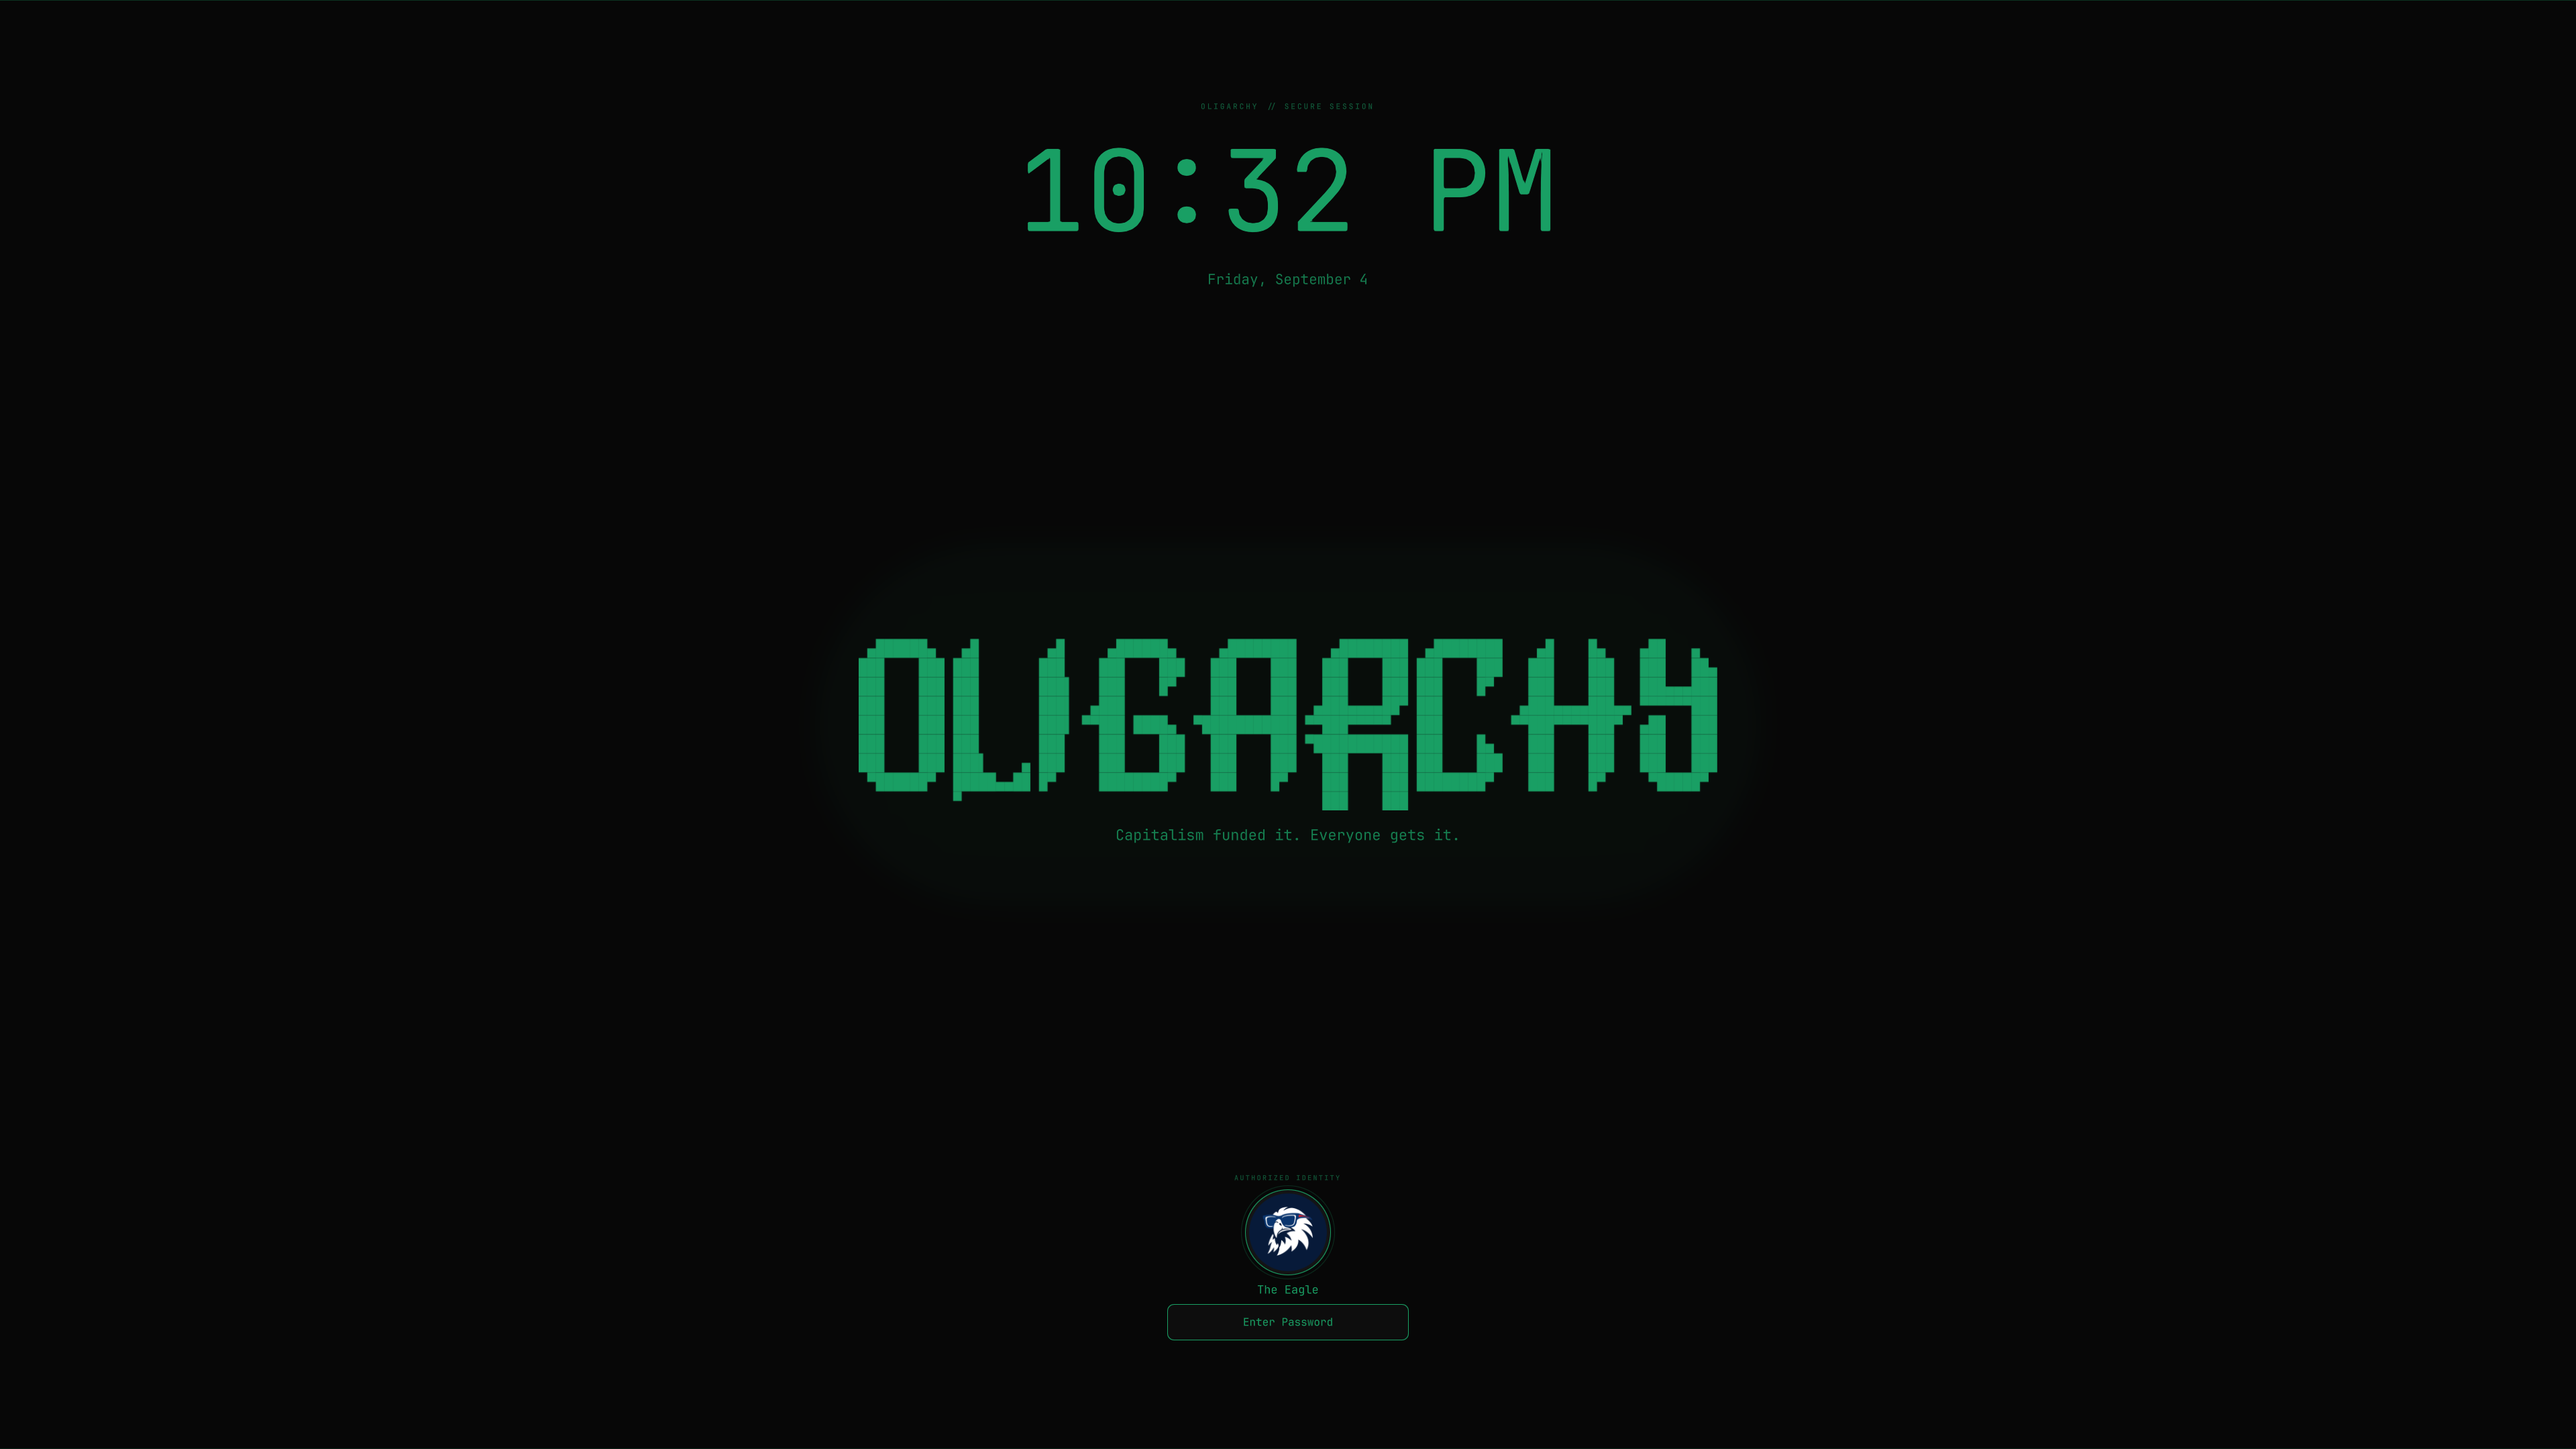
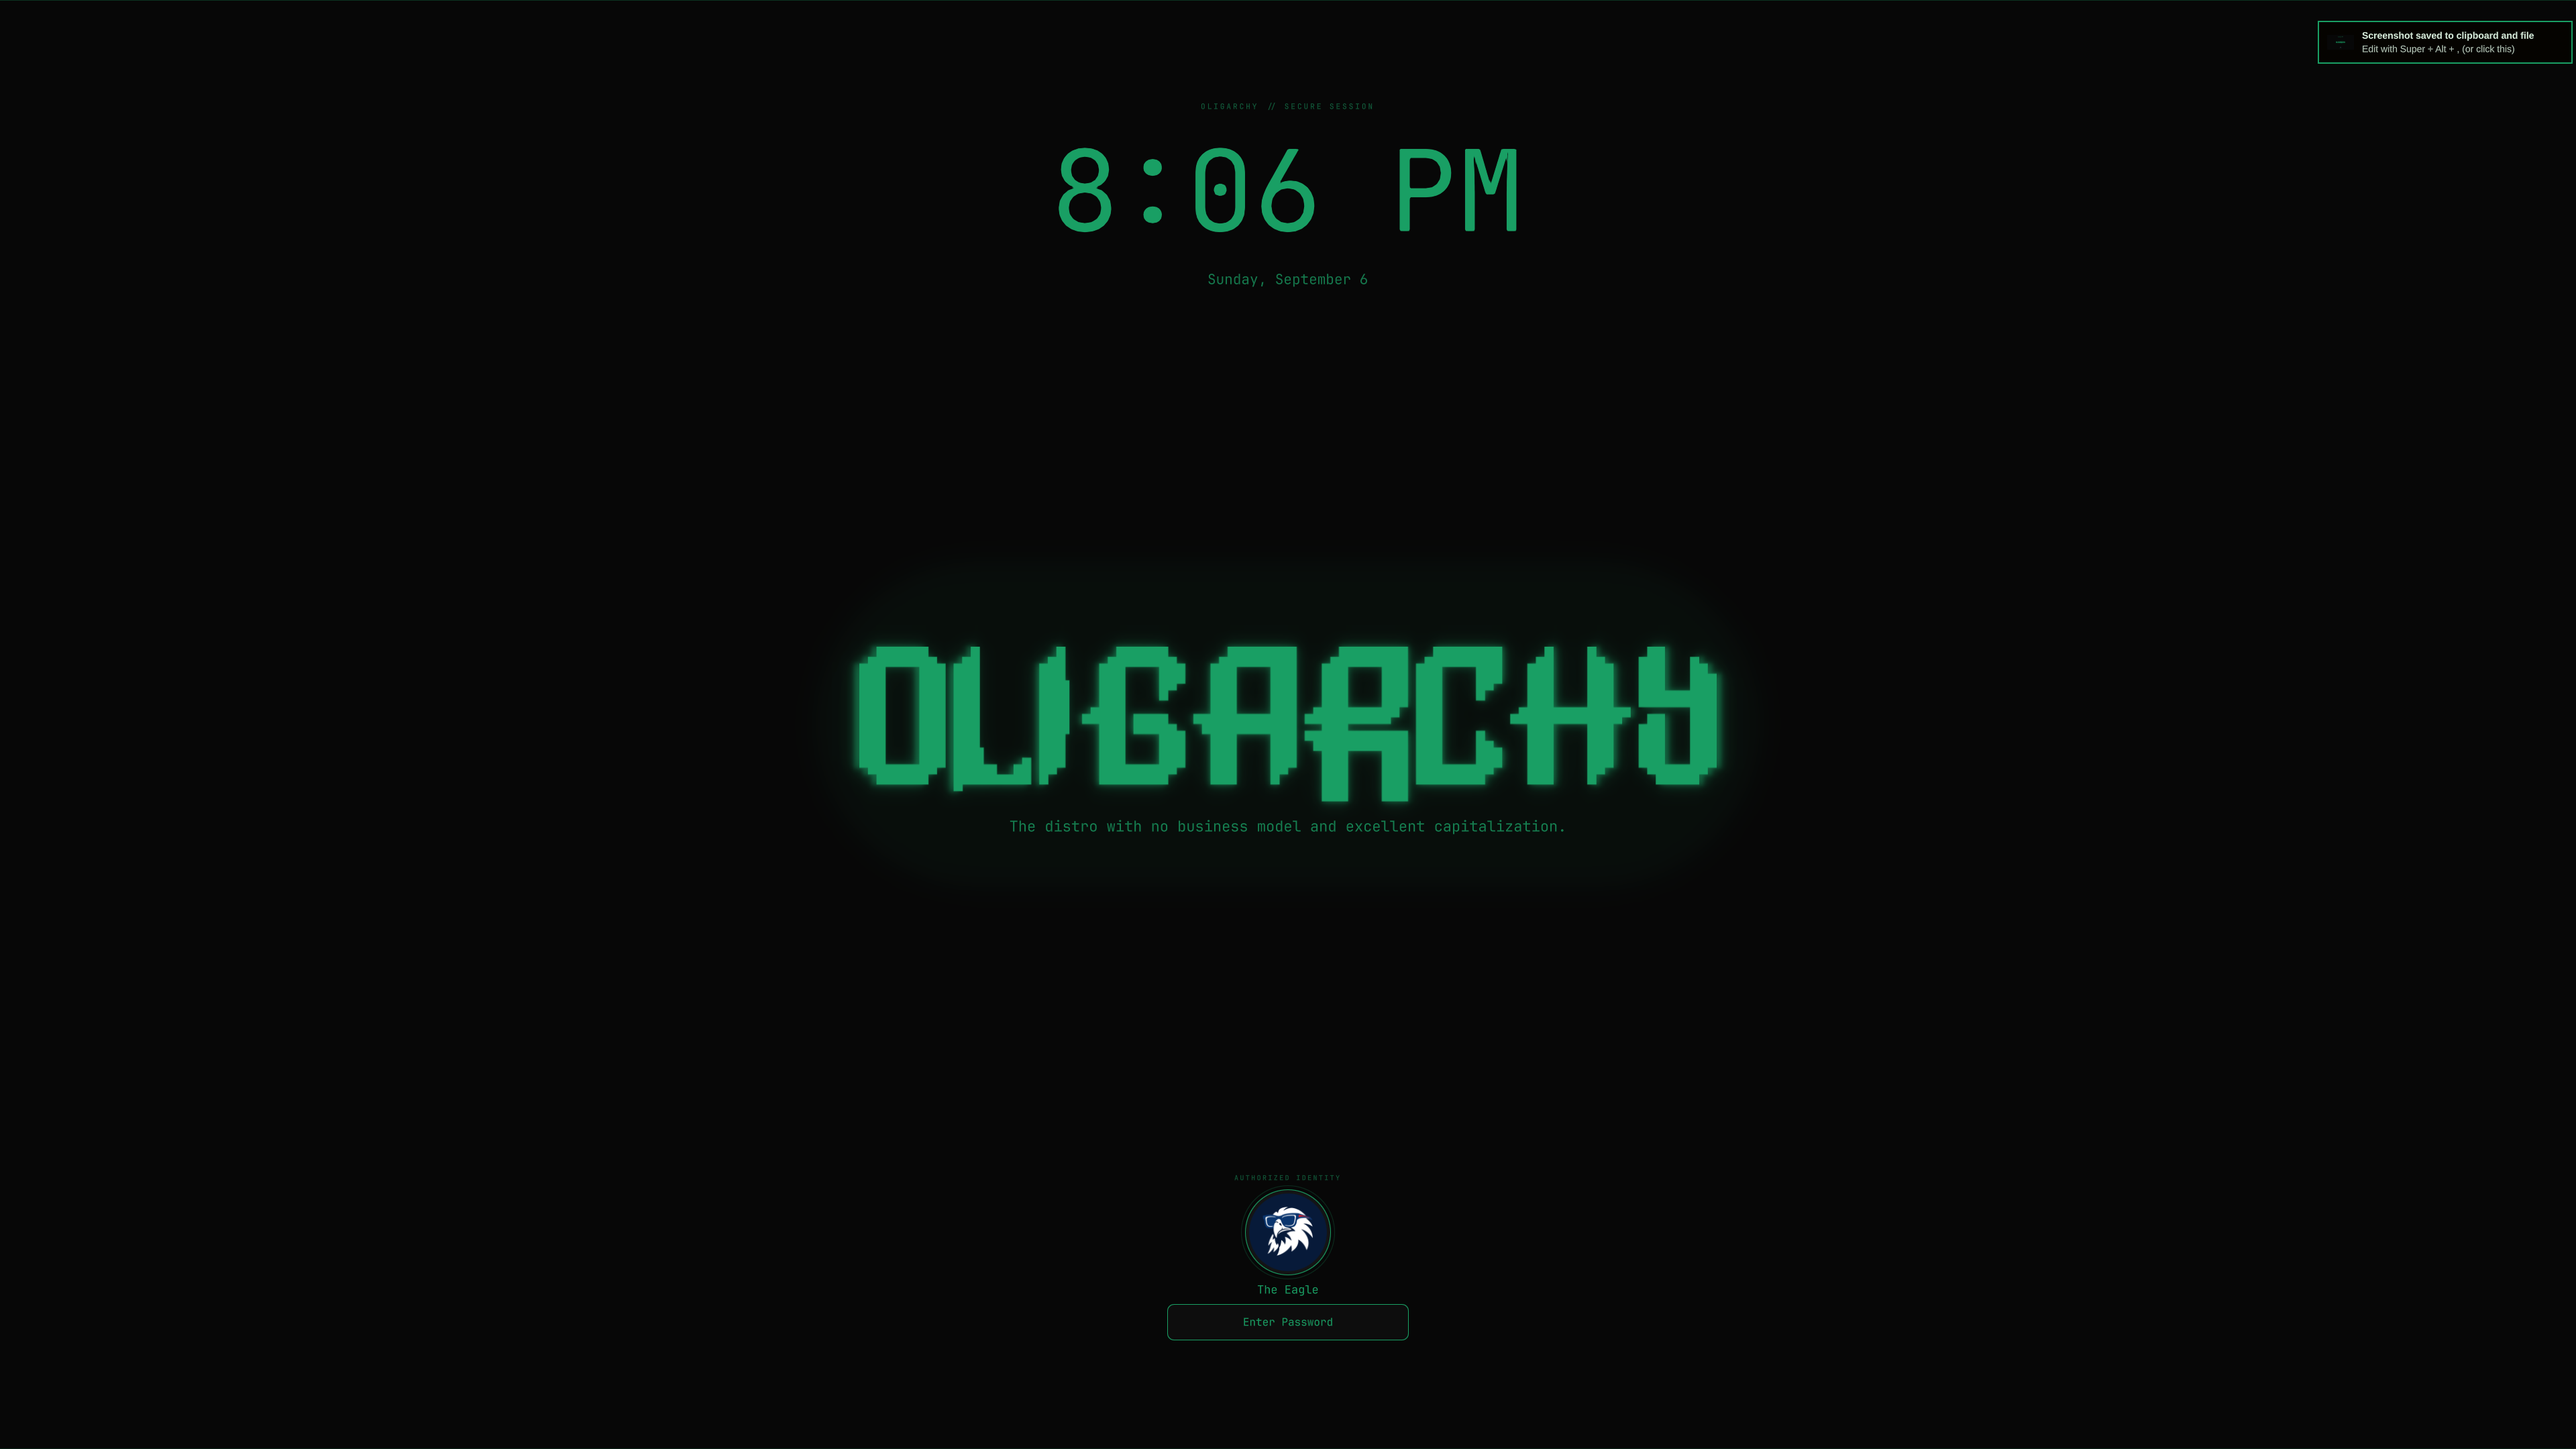
feat(oligarchy-lock): add password visibility toggle and preview capture
Promote the latest lockscreen capture to the sole preview image, remove superseded screenshots, and add a masked-by-default eye control for password entry.

Changed region(s): [[0.3125, 0.4343, 0.6875, 0.5894], [0.4062, 0.0931, 0.625, 0.1861], [0.9375, 0.0, 0.9688, 0.031]]

diff --git a/LockView.qml b/LockView.qml
@@ -19,6 +19,7 @@ Item {
   property bool loadBackground: true
   property string passwordText: ""
   property bool syncingPasswordText: false
+  property bool passwordVisible: false
   property string oligarchyTagline: ""
   property string displayName: ""
   property string fallbackUsername: ""
@@ -141,6 +142,9 @@ Item {
   }
 
   onInputEnabledChanged: {
+    if (!inputEnabled)
+      passwordVisible = false
+
     if (inputEnabled) {
       randomizeOligarchyTagline()
       Qt.callLater(forcePasswordFocus)
@@ -620,7 +624,7 @@ Item {
           anchors.fill: parent
 
           anchors.leftMargin: 18
-          anchors.rightMargin: 18
+          anchors.rightMargin: 52
 
           verticalAlignment:
             TextInput.AlignVCenter
@@ -639,7 +643,9 @@ Item {
             root.authenticatingPassword
 
           echoMode:
-            TextInput.Password
+            root.passwordVisible
+              ? TextInput.Normal
+              : TextInput.Password
 
           passwordCharacter:
             "\u25CF"
@@ -767,6 +773,36 @@ Item {
 
           elide:
             Text.ElideRight
+        }
+
+        Text {
+          id: passwordVisibilityIcon
+
+          anchors.right: parent.right
+          anchors.rightMargin: 16
+          anchors.verticalCenter: parent.verticalCenter
+
+          text:
+            root.passwordVisible
+              ? ""
+              : ""
+
+          color: Color.accent
+          opacity: 0.78
+
+          font.family: Style.font.family
+          font.pixelSize: 17
+
+          MouseArea {
+            anchors.fill: parent
+            cursorShape: Qt.PointingHandCursor
+
+            onClicked: {
+              root.passwordVisible = !root.passwordVisible
+              root.wakeRequested()
+              root.forcePasswordFocus()
+            }
+          }
         }
       }
 

diff --git a/sessions/2026-09-062020-preview-password-toggle.md b/sessions/2026-09-062020-preview-password-toggle.md
@@ -1,0 +1,51 @@
+# Session: Preview Capture and Password Visibility Toggle
+
+**Date**: 2026-09-06
+**Branch**: main
+**Project**: `omarchy-oligarchy-quickshell-lockscreen`
+**Duration**: implementation slice
+
+## Summary
+
+Promoted the user-provided lockscreen capture to the sole marketplace/README preview and added an eye control for password visibility.
+
+## Work Completed
+
+- Replaced the root `preview.png` with the latest 3840×2160 user capture.
+- Removed the two older screenshot gallery assets and references.
+- Added a masked-by-default eye toggle to the password field.
+- Reset password visibility when the lock view deactivates.
+
+## Files Changed
+
+- `LockView.qml`
+- `README.md`
+- `CHANGELOG.md`
+- `SCRATCHPAD.md`
+- `preview.png`
+- `assets/screenshots/lockscreen-capitalism.png` (deleted)
+- `assets/screenshots/lockscreen-arch.png` (deleted)
+- `sessions/2026-09-062020-preview-password-toggle.md`
+
+## Decisions Made
+
+- Use the user’s real capture as the marketplace preview.
+- Keep password masking as the safe default and provide an explicit eye control for temporary visibility.
+- Remove superseded screenshots to avoid marketplace and README ambiguity.
+
+## Testing Notes
+
+- `jq empty manifest.json` passed.
+- `omarchy plugin validate .` passed.
+- `git diff --check` passed.
+- `preview.png` is the user-provided 3840×2160 capture.
+- Live `LockView.qml` installation, shell restart, and lock preview completed without new QML or image-decoding errors.
+
+## Next Steps
+
+- [x] Validate, install, and preview-test the change.
+- [x] Commit and push the slice.
+
+## Notes
+
+The eye control is placed inside the password field and preserves focus after toggling, so typing and Enter submission continue to use the existing authentication path.

diff --git a/README.md b/README.md
@@ -6,9 +6,7 @@ An Oligarchy-themed lock screen for Omarchy Quickshell, with a dark executive-pa
 
 ## Screenshots
 
-![Oligarchy lockscreen with capitalism tagline](assets/screenshots/lockscreen-capitalism.png)
-
-![Oligarchy lockscreen with Arch tagline](assets/screenshots/lockscreen-arch.png)
+![Oligarchy lockscreen preview](preview.png)
 
 ## Features
 
@@ -20,6 +18,7 @@ An Oligarchy-themed lock screen for Omarchy Quickshell, with a dark executive-pa
 - **Local assets** — tagline selection does not depend on another plugin staying installed.
 - **Official banner source** — uses the vectorized Oligarchy banner from the companion screensaver project.
 - **Marketplace preview** — includes a root-level preview.png lockscreen image.
+- **Password visibility** — toggles masked or visible entry text with the eye control; masking is restored when the lock view deactivates.
 
 ## Installation
 

diff --git a/CHANGELOG.md b/CHANGELOG.md
@@ -4,6 +4,8 @@
 
 - Replaced the lockscreen wordmark with the companion vector Oligarchy banner and added a restrained green phosphor glow treatment.
 - Corrected the wordmark rendering to use the active accent color with layered face, extrusion, and glow depth.
+- Added an eye control to show or hide the password entry while preserving masked-by-default behavior.
+- Replaced the marketplace/README preview with the latest lockscreen capture.
 - Added a root-level `preview.png` marketplace preview image.
 - Fixed an intermittent Hyprland failsafe screen by shutting down terminal-based screensaver windows before starting the session-lock handshake.
 - Prevented monitor changes during an active lock from triggering a duplicate stranded-lock recovery.

diff --git a/SCRATCHPAD.md b/SCRATCHPAD.md
@@ -1,4 +1,4 @@
 # Active Work
 
-- Session log: `sessions/2026-09-061900-oligarchy-branding.md`
-- Accent-depth logo pass validated and installed; user review remains.
+- Session log: `sessions/2026-09-062020-preview-password-toggle.md`
+- Latest lockscreen capture is the sole preview; password visibility toggle is live and validated.
